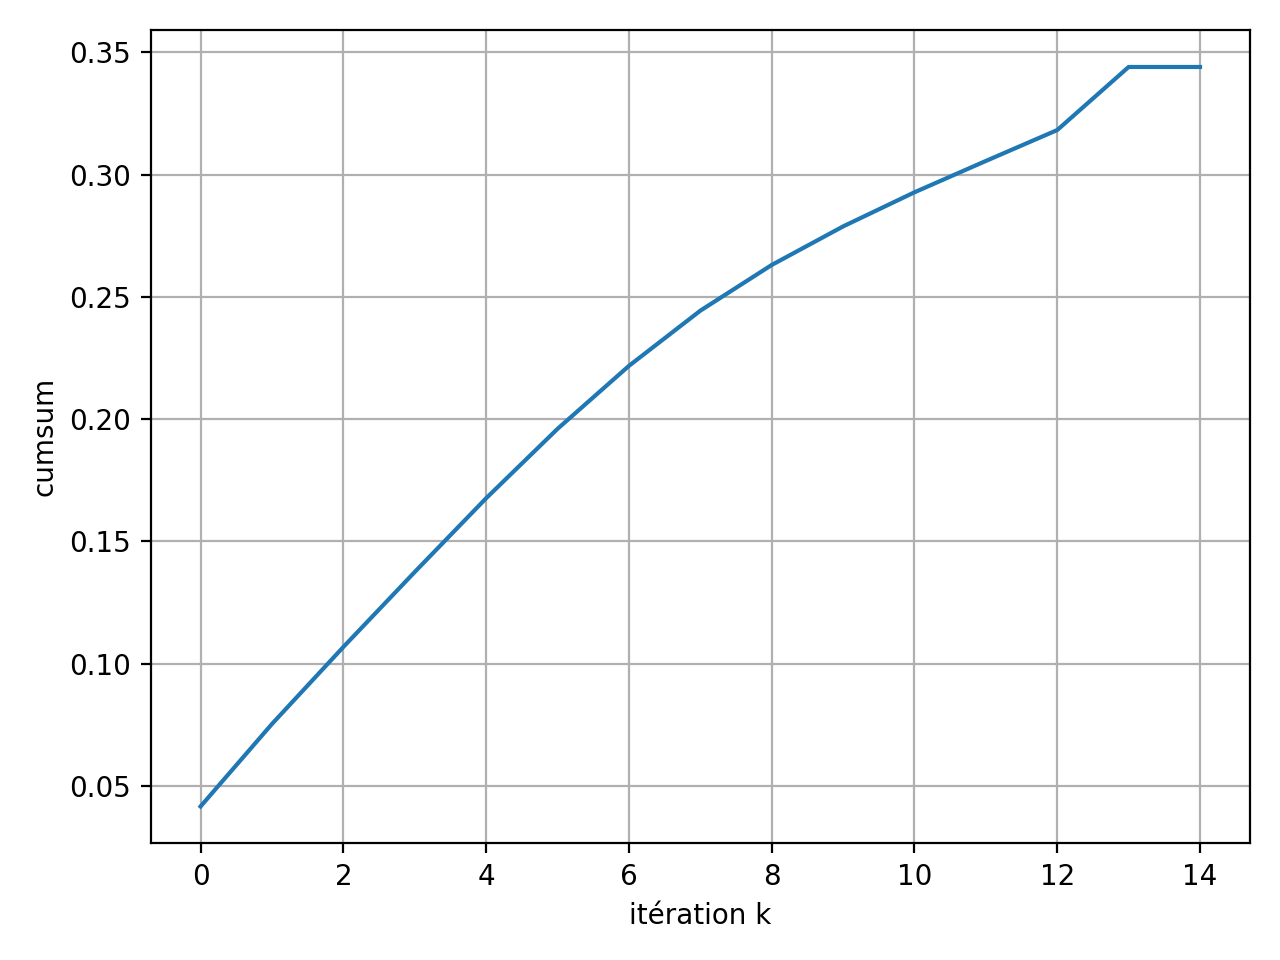
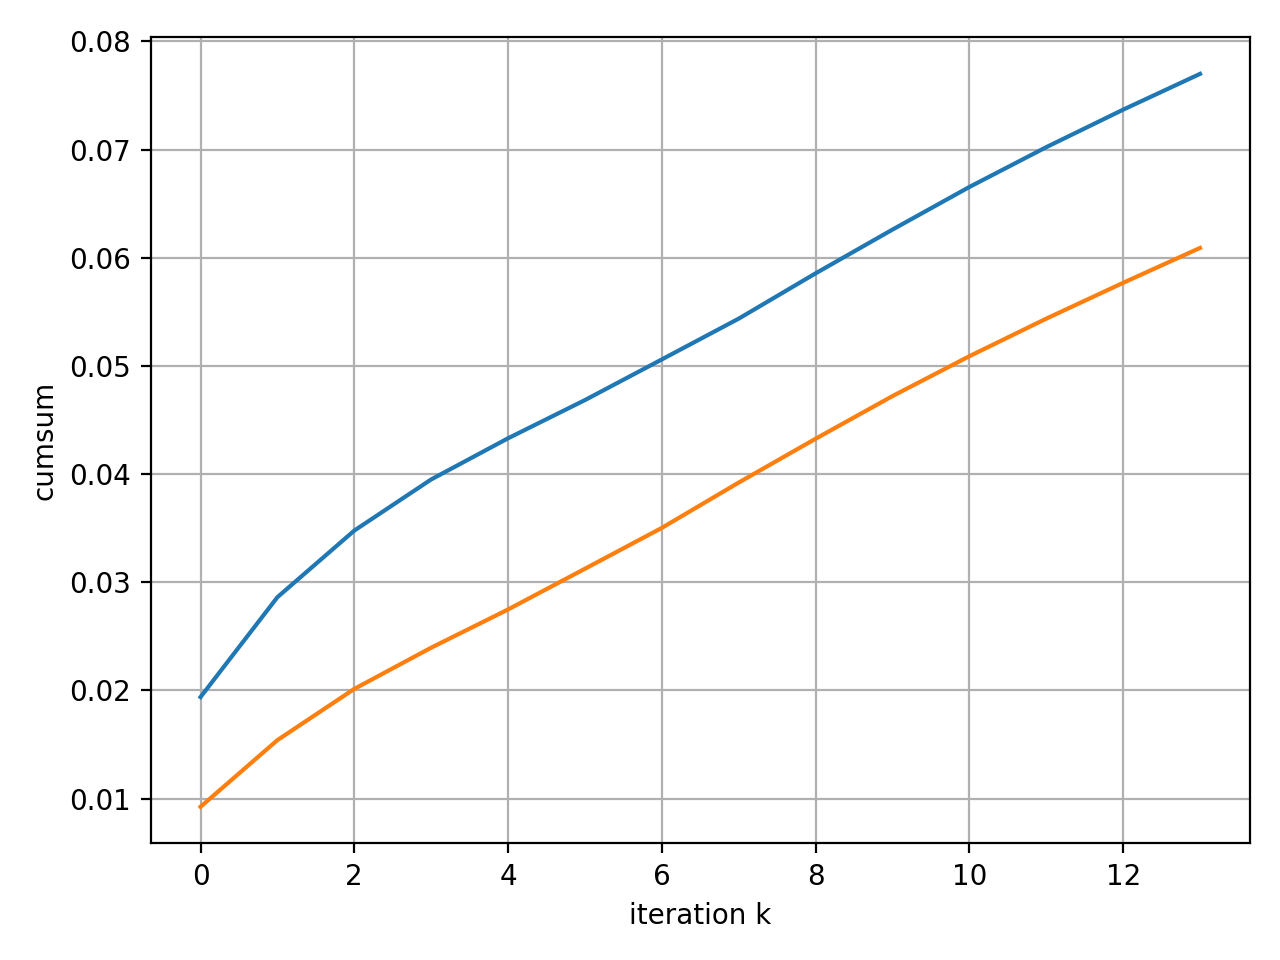
Dernières courbes

diff --git a/IRCNN_sigmamap/IRCNN_sigmamap_inpainting.py b/IRCNN_sigmamap/IRCNN_sigmamap_inpainting.py
@@ -18,48 +18,62 @@ def l2norm_flat(x: torch.Tensor) -> torch.Tensor:
     return torch.norm(x.reshape(-1), p=2)
 
 def save_convergence_plots(metrics: dict, out_dir: str, prefix: str = "ircnn"):
-    """
-    metrics:
-      psnr_x:   list length K
-      rel_step: list length K (rel_step[k] = ||x_{k+1}-x_k|| / ||x0|| for k<=K-2, rel_step[K-1]=0)
-      cumsum:   list length K (cumsum[k] = sum_{i<=k} rel_step[i])
-    """
     os.makedirs(out_dir, exist_ok=True)
     K = len(metrics["psnr_x"])
     it = np.arange(K)
+    it2 = np.arange(K-1)
+    
 
-    # PSNR(x_k)
+    # PSNR
     plt.figure()
-    plt.plot(it, metrics["psnr_x"])
+    plt.plot(it, metrics["psnr_x"], label="PSNR x_k")
+    plt.plot(it, metrics["psnr_z"], label="PSNR z_k")
     plt.xlabel("itération k")
-    plt.ylabel("PSNR(x_k, GT) [dB]")
+    plt.ylabel("PSNR [dB]")
+    plt.legend()
     plt.grid(True)
     plt.tight_layout()
-    plt.savefig(os.path.join(out_dir, f"{prefix}_psnr_xk.png"), dpi=200)
+    plt.savefig(os.path.join(out_dir, f"{prefix}_psnr.png"), dpi=200)
+    plt.close()
+    
+    plt.figure()
+    plt.plot(it, metrics["ssim_x"], label="SSIM x_k")
+    plt.plot(it, metrics["ssim_z"], label="SSIM z_k")
+    plt.xlabel("itération k")
+    plt.ylabel("SSIM")
+    plt.legend()
+    plt.grid(True)
+    plt.tight_layout()
+    plt.savefig(os.path.join(out_dir, f"{prefix}_ssim.png"), dpi=200)
     plt.close()
 
-    # ||x_{k+1}-x_k|| / ||x0|| (log scale)
-    rel = np.array(metrics["rel_step"], dtype=np.float64)
-    rel_safe = np.maximum(rel, 1e-16)
+    # --- 2) ||x_{k+1}-x_k|| / ||x0|| (log scale)
+    relx = np.array(metrics["rel_step_x"])
+    relz = np.array(metrics["rel_step_z"])
+    relx = np.maximum(relx, 1e-16)
+    relz = np.maximum(relz, 1e-16)
     plt.figure()
-    plt.semilogy(it, rel_safe)
-    plt.xlabel("itération k")
+    plt.semilogy(it2, relx, label=r"$(x_k-x_{k-1})/(x_0)$")
+    plt.semilogy(it2, relz, label=r"$\|z_k-z_{k-1}\|/\|z_0\|$")    
+    plt.xlabel("iteration k")
     plt.ylabel(r"relsafe")
     plt.grid(True, which="both")
     plt.tight_layout()
     plt.savefig(os.path.join(out_dir, f"{prefix}_rel_step_log.png"), dpi=200)
     plt.close()
 
-    # somme cumulée
+    # Cumsum
+    cx = np.array(metrics["cumsum_x"])
+    cz = np.array(metrics["cumsum_z"])
     plt.figure()
-    plt.plot(it, metrics["cumsum"])
-    plt.xlabel("itération k")
+    plt.plot(it2, cx, label="cumsum x")
+    plt.plot(it2, cz, label="cumsum z")    
+    plt.xlabel("iteration k")
     plt.ylabel(r"cumsum")
     plt.grid(True)
     plt.tight_layout()
     plt.savefig(os.path.join(out_dir, f"{prefix}_cumsum_rel_step.png"), dpi=200)
     plt.close()
-
 
 def randn_like_compat(x: torch.Tensor, seed: int):
     try:
@@ -143,7 +157,7 @@ def denoise_sigma_map(model_name: str, model, x3: torch.Tensor, sigma: float):
     B, C, H, W = x3.shape
     sigma_map = torch.full((B, 1, H, W), float(sigma), device=x3.device, dtype=x3.dtype)
     inp4 = torch.cat([x3, sigma_map], dim=1)
-    return ircnn_infer(model, inp4, modulo=8).clamp(0, 1)
+    return ircnn_infer(model, inp4).clamp(0, 1)
 
 # DPIR-style PnP-HQS Inpainting
 @torch.no_grad()
@@ -153,6 +167,7 @@ def dpir_hqs_inpaint(
     model_name: str,
     model,
     iter_num: int = 15,
+    lambda_pnp: float = 0.23,
     sigma_obs_pix: float = 5.0,
     modelSigma2_pix: float = 2.55,
     shepard_window: int = 21,
@@ -180,18 +195,27 @@ def dpir_hqs_inpaint(
     if track_convergence:
         metrics = {
             "psnr_x":   [0.0] * iter_num,
+            "psnr_z":   [0.0] * iter_num,
             "ssim_x":   [0.0] * iter_num,
-            "rel_step": [0.0] * iter_num,
-            "cumsum":   [0.0] * iter_num,
+            "ssim_z":   [0.0] * iter_num,
+            # rel changes
+            "rel_step_x": [0.0] * (iter_num-1),
+            "rel_step_z": [0.0] * (iter_num-1),
+            "cumsum_x":   [0.0] * (iter_num-1),
+            "cumsum_z":   [0.0] * (iter_num-1),
         }
         x_prev = None
         x0_norm = None
-        csum = 0.0
+        z0_norm = None
+        csum_x = 0.0
+        csum_z = 0.0
 
     for k in range(iter_num):
-        mu = rhos_t[k].view(1, 1, 1, 1)
-
-        # x-step
+        #mu = rhos_t[k].view(1, 1, 1, 1)
+        sigma_k = sigmas[k]
+        #print(f"sigma:{sigma_k}")
+        mu = lambda_pnp/ (sigma_k**2)
+        # x-step (fermé pixelwise)
         xk = (M3 * y + mu * z) / (M3 + mu)
         xk = xk.clamp(0, 1)
 
@@ -206,22 +230,30 @@ def dpir_hqs_inpaint(
 
         # enforce known pixels
         z = (M3 * y + (1.0 - M3) * z).clamp(0, 1)
+        
+        if track_convergence and (gt is not None):
+            metrics["psnr_z"][k] = psnr_torch(z, gt)
+            metrics["ssim_z"][k] = ssim_torch(z, gt)
 
-        # ||x_{k+1}-x_k|| / ||x0|| + somme cumulée
-        if track_convergence:
             if k == 0:
                 x_prev = xk.clone()
+                z_prev = z.clone()
                 x0_norm = float(l2norm_flat(x_prev).item()) + 1e-12
+                z0_norm = float(l2norm_flat(z_prev).item()) + 1e-12
             else:
-                step = float(l2norm_flat(xk - x_prev).item()) / x0_norm
-                metrics["rel_step"][k - 1] = step
-                csum += step
-                metrics["cumsum"][k - 1] = csum
-                x_prev = xk.clone()
+                step_x = float(l2norm_flat(xk - x_prev).item()) / x0_norm
+                step_z = float(l2norm_flat(z  - z_prev).item()) / z0_norm
 
-    if track_convergence:
-        metrics["rel_step"][-1] = 0.0
-        metrics["cumsum"][-1] = csum
+                metrics["rel_step_x"][k - 1] = step_x
+                metrics["rel_step_z"][k - 1] = step_z
+
+                csum_x += step_x
+                csum_z += step_z
+                metrics["cumsum_x"][k - 1] = csum_x
+                metrics["cumsum_z"][k - 1] = csum_z
+
+                x_prev = xk.clone()
+                z_prev = z.clone()
 
     return (z, metrics) if track_convergence else z
 
@@ -232,7 +264,8 @@ def run_compare(
     out_dir="./results_IRCNN_sigmamap/inpainting_single",
     missing_ratio=0.15, 
     seed=0,
-    iter_num=15, 
+    iter_num=15,
+    lambda_pnp=0.23,
     sigma_obs_pix=5.0, 
     modelSigma2_pix=2.55,
     shepard_window=21, 
@@ -268,7 +301,7 @@ def run_compare(
     # IRCNN+
     rec_d, metrics_d = dpir_hqs_inpaint(
         y=y, M=M, model_name="ircnn", model=ircnn,
-        iter_num=iter_num, sigma_obs_pix=sigma_obs_pix, modelSigma2_pix=modelSigma2_pix,
+        iter_num=iter_num, lambda_pnp=lambda_pnp, sigma_obs_pix=sigma_obs_pix, modelSigma2_pix=modelSigma2_pix,
         shepard_window=shepard_window, shepard_p=shepard_p, seed=seed,
         track_convergence=True, gt=gt
     )
@@ -318,6 +351,7 @@ def run_compare_return_metrics(
     missing_ratio=0.15,
     seed=0,
     iter_num=15,
+    lambda_pnp=0.23,
     sigma_obs_pix=5.0,
     modelSigma2_pix=2.55,
     shepard_window=21,
@@ -348,7 +382,7 @@ def run_compare_return_metrics(
     t0 = time.perf_counter()
     out = dpir_hqs_inpaint(
     y=y, M=M, model_name="ircnn", model=ircnn,
-    iter_num=iter_num, sigma_obs_pix=sigma_obs_pix, modelSigma2_pix=modelSigma2_pix,
+    iter_num=iter_num, lambda_pnp=lambda_pnp, sigma_obs_pix=sigma_obs_pix, modelSigma2_pix=modelSigma2_pix,
     shepard_window=int(shepard_window), shepard_p=shepard_p, seed=seed,
     track_convergence=save_convergence, gt=gt
     )
@@ -432,6 +466,7 @@ def run_pool_10_images(
     seed=0,
     missing_ratio=0.45,
     iter_num=20,
+    lambda_pnp=0.23,
     sigma_obs_pix=5.0,
     modelSigma2_pix=2.55,
     shepard_window=21,
@@ -462,6 +497,7 @@ def run_pool_10_images(
             missing_ratio=missing_ratio,
             seed=seed,
             iter_num=iter_num,
+            lambda_pnp=lambda_pnp,
             sigma_obs_pix=sigma_obs_pix,
             modelSigma2_pix=modelSigma2_pix,
             shepard_window=shepard_window,
@@ -496,6 +532,7 @@ def run_pool_10_images(
         seed=0,
         missing_ratio=0.42,
         iter_num=20,
+        lambda_pnp=0.23,
         sigma_obs_pix=5.0,
         modelSigma2_pix=2.55,
         shepard_window=21,
